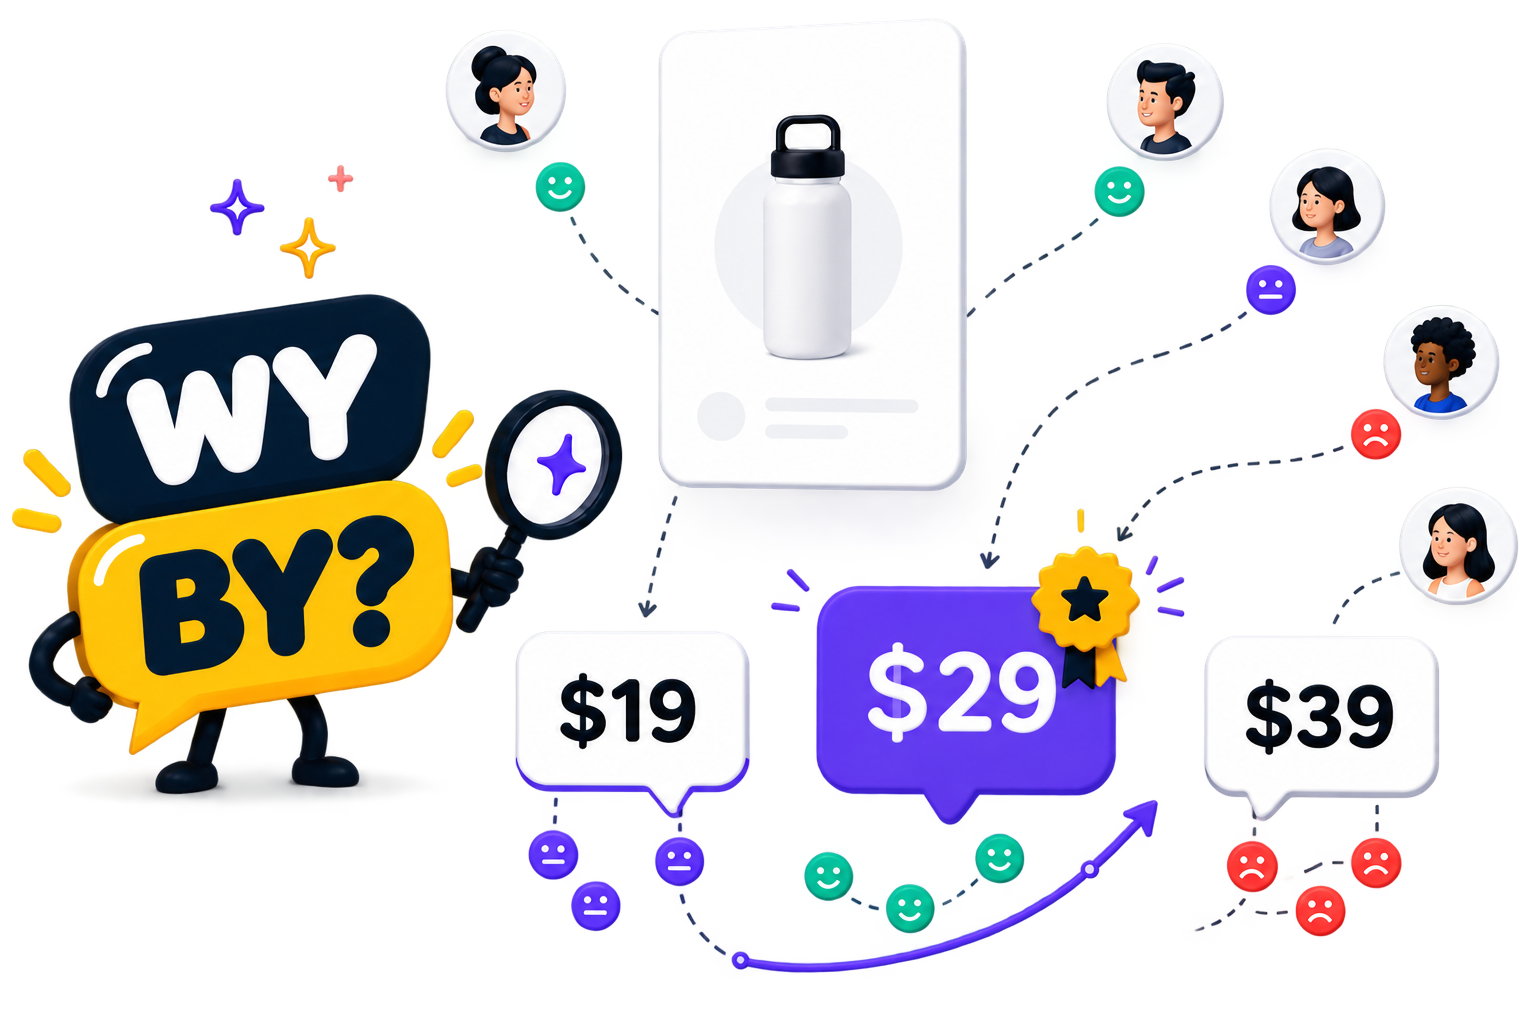
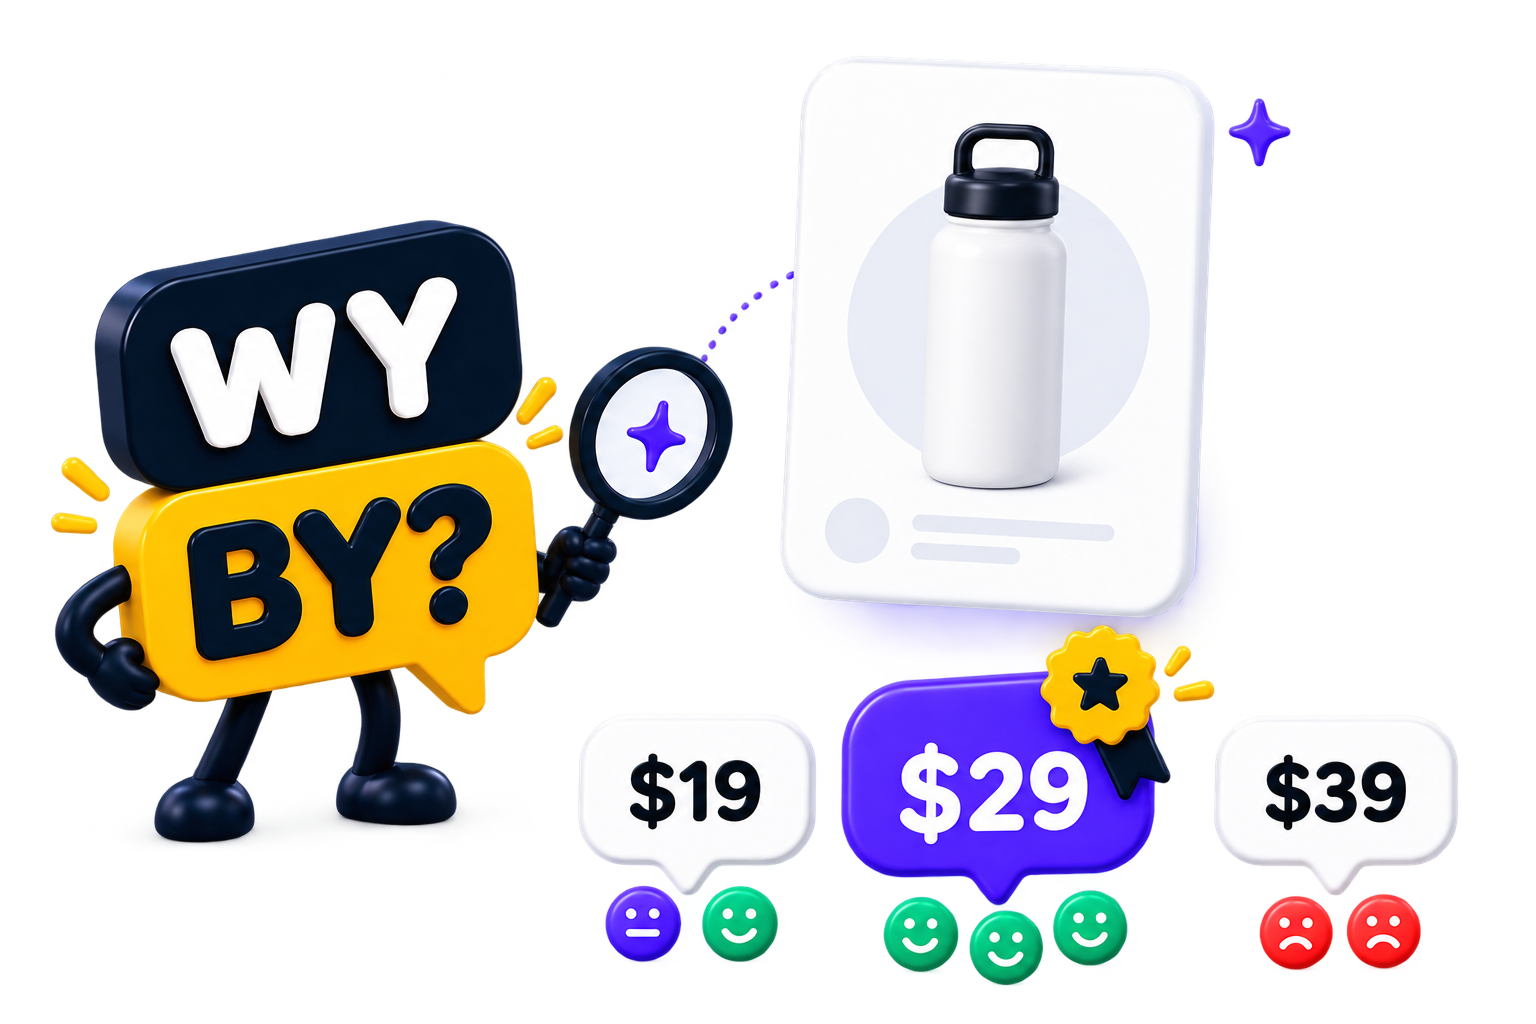
Hero section: new copy, decluttered illustration, price-box question merge
- Headline/subhead rewrite, simplified pricing line, "Clear price
  recommendation" replacing "Deterministic report"
- Replace hero illustration with a cleaner version (mascot, product,
  three prices — no avatar clutter)
- OfferCard: price box now opens with "Would you buy {title} for"
  above the price, with an optional priceExtra slot so the ask/
  confidence/suggest/done steps can render inside the same box
- HomeDemo: whole demo flow now lives in the price box; drop the
  now-redundant "Would you actually buy this?" heading; larger
  title and price-question type sizes

diff --git a/src/components/HomeDemo.js b/src/components/HomeDemo.js
@@ -58,82 +58,82 @@ export function HomeDemo() {
         price={34}
         titleClassName="pt-4 pb-2 md:pt-0 md:pb-0"
         className="border-none shadow-[0_8px_24px_rgba(30,35,64,0.06)]"
-      >
-        {step === 'ask' && (
-          <div className="mt-6">
-            <h2 className="text-xl font-extrabold tracking-tight">Would you actually buy this?</h2>
-            <div className="mt-5 grid gap-3 sm:grid-cols-2">
-              <button type="button" className="btn btn-answer text-lg py-4" onClick={() => chooseAnswer('yes')}>
-                Yes, I&apos;d buy it
-              </button>
-              <button type="button" className="btn btn-answer text-lg py-4" onClick={() => chooseAnswer('no')}>
-                No, not at this price
-              </button>
-            </div>
-          </div>
-        )}
-
-        {step === 'confidence' && (
-          <div className="mt-6">
-            <h2 className="text-center text-xl font-extrabold tracking-tight">How serious are you?</h2>
-            <div className="mt-5 grid gap-2">
-              {CONFIDENCE_OPTIONS.map((option) => (
-                <button key={option.value} type="button" className="btn btn-plain flex-col items-start gap-0 pl-8 pr-5 py-2" onClick={finish}>
-                  <span className="text-base font-extrabold">{option.label}</span>
-                  <span className="text-sm font-normal text-muted">{option.hint}</span>
+        priceExtra={
+          <>
+            {step === 'ask' && (
+              <div className="grid gap-3 sm:grid-cols-2">
+                <button type="button" className="btn btn-answer text-lg py-4" onClick={() => chooseAnswer('yes')}>
+                  Yes, I&apos;d buy it
                 </button>
-              ))}
-            </div>
-            <button type="button" className="btn-ghost mt-4 w-full text-sm" onClick={finish}>
-              Skip
-            </button>
-          </div>
-        )}
-
-        {step === 'suggest' && (
-          <div className="mt-6">
-            <h2 className="text-center text-xl font-extrabold tracking-tight">What would feel like a fair price?</h2>
-            <form
-              className="mt-5"
-              onSubmit={(event) => {
-                event.preventDefault();
-                finish();
-              }}
-            >
-              <div className="flex items-center gap-2">
-                <span className="text-2xl font-bold">$</span>
-                <input
-                  className="field text-lg"
-                  inputMode="decimal"
-                  value={suggestedPrice}
-                  onChange={(event) => setSuggestedPrice(event.target.value)}
-                  placeholder="0"
-                  autoFocus
-                  aria-label="Fair price"
-                />
+                <button type="button" className="btn btn-answer text-lg py-4" onClick={() => chooseAnswer('no')}>
+                  No, not at this price
+                </button>
               </div>
-              <button type="submit" className="btn btn-primary mt-4 w-full" disabled={!suggestedPrice.trim()}>
-                Submit
-              </button>
-            </form>
-            <button type="button" className="btn-ghost mt-3 w-full text-sm" onClick={finish}>
-              Skip
-            </button>
-          </div>
-        )}
+            )}
 
-        {step === 'done' && (
-          <div className="mt-6 text-center">
-            <p className="text-2xl font-extrabold tracking-tight">Thanks — vote recorded.</p>
-            <p className="hint mt-1">
-              {answer === 'yes' ? 'The creator sees the number, never your name.' : 'Honest answers are the useful ones.'}
-            </p>
-            <button type="button" className="btn-ghost mt-4 text-sm" onClick={reset}>
-              Try the demo again
-            </button>
-          </div>
-        )}
-      </OfferCard>
+            {step === 'confidence' && (
+              <div>
+                <h2 className="text-center text-lg font-extrabold tracking-tight">How serious are you?</h2>
+                <div className="mt-3 grid gap-2">
+                  {CONFIDENCE_OPTIONS.map((option) => (
+                    <button key={option.value} type="button" className="btn btn-plain flex-col items-start gap-0 pl-8 pr-5 py-2" onClick={finish}>
+                      <span className="text-base font-extrabold">{option.label}</span>
+                      <span className="text-sm font-normal text-muted">{option.hint}</span>
+                    </button>
+                  ))}
+                </div>
+                <button type="button" className="btn-ghost mt-3 w-full text-sm" onClick={finish}>
+                  Skip
+                </button>
+              </div>
+            )}
+
+            {step === 'suggest' && (
+              <div>
+                <h2 className="text-center text-lg font-extrabold tracking-tight">What would feel like a fair price?</h2>
+                <form
+                  className="mt-3"
+                  onSubmit={(event) => {
+                    event.preventDefault();
+                    finish();
+                  }}
+                >
+                  <div className="flex items-center gap-2">
+                    <span className="text-2xl font-bold">$</span>
+                    <input
+                      className="field text-lg"
+                      inputMode="decimal"
+                      value={suggestedPrice}
+                      onChange={(event) => setSuggestedPrice(event.target.value)}
+                      placeholder="0"
+                      autoFocus
+                      aria-label="Fair price"
+                    />
+                  </div>
+                  <button type="submit" className="btn btn-primary mt-4 w-full" disabled={!suggestedPrice.trim()}>
+                    Submit
+                  </button>
+                </form>
+                <button type="button" className="btn-ghost mt-3 w-full text-sm" onClick={finish}>
+                  Skip
+                </button>
+              </div>
+            )}
+
+            {step === 'done' && (
+              <div className="text-center">
+                <p className="text-xl font-extrabold tracking-tight">Thanks — vote recorded.</p>
+                <p className="hint mt-1">
+                  {answer === 'yes' ? 'The creator sees the number, never your name.' : 'Honest answers are the useful ones.'}
+                </p>
+                <button type="button" className="btn-ghost mt-3 text-sm" onClick={reset}>
+                  Try the demo again
+                </button>
+              </div>
+            )}
+          </>
+        }
+      />
     </div>
   );
 }

diff --git a/src/components/OfferCard.js b/src/components/OfferCard.js
@@ -6,7 +6,7 @@ import { ProductImageGallery } from './ProductImageGallery.js';
  * The offer as a respondent sees it. Deliberately one component so the
  * homepage demo, the live respondent page and the preview can never drift apart.
  */
-export function OfferCard({ test, price, showPrice = true, children, className = '', titleClassName = '' }) {
+export function OfferCard({ test, price, showPrice = true, priceExtra, children, className = '', titleClassName = '' }) {
   const storedImages = Array.isArray(test.image_urls) ? test.image_urls : [];
   const imageUrls = storedImages.length > 0 ? storedImages : test.image_url ? [test.image_url] : [];
   const items = (test.included_items || '')
@@ -19,7 +19,7 @@ export function OfferCard({ test, price, showPrice = true, children, className =
       {imageUrls.length > 0 && <ProductImageGallery images={imageUrls} presentations={test.image_presentations} />}
 
       <div className={imageUrls.length ? 'p-0 md:pt-1' : 'p-6 sm:p-8'}>
-        <h1 className={`text-2xl font-extrabold tracking-tight ${titleClassName}`}>{test.title}</h1>
+        <h1 className={`text-3xl font-extrabold tracking-tight ${titleClassName}`}>{test.title}</h1>
         <p className="mt-2 text-muted leading-relaxed">{test.description}</p>
 
         {items.length > 0 && (
@@ -48,10 +48,14 @@ export function OfferCard({ test, price, showPrice = true, children, className =
 
         {showPrice && (
           <div className="mt-6 rounded-xl border-2 border-ink bg-[#f4f1ff] p-4">
-            <p className="text-xs font-bold uppercase tracking-wider text-muted">The price you&apos;d pay</p>
+            <p className="text-base font-bold text-ink">Would you buy {test.title} for</p>
             <p className="mt-1 text-5xl font-extrabold tracking-tight">
             {formatPrice(price, test.currency, test.billing_type)}
             </p>
+            {/* Optional slot for the initial ask (question + yes/no buttons) so it
+              * can live in the same box as the price it's asking about, instead of
+              * as a disconnected block underneath — see HomeDemo. */}
+            {priceExtra && <div className="mt-4 border-t border-ink/10 pt-4">{priceExtra}</div>}
           </div>
         )}
 

diff --git a/src/app/page.js b/src/app/page.js
@@ -81,11 +81,11 @@ export default function HomePage() {
             <div className="min-w-0">
             <p className="eyebrow">Pricing research with real people</p>
             <h1 className="mt-4 text-4xl sm:text-6xl font-extrabold tracking-tight leading-[0.98]">
-              Find the price people are most willing to buy at.
+              Find the price people are willing to pay.
             </h1>
             <p className="mt-5 max-w-xl text-base leading-relaxed text-muted">
-              Test different prices without letting people compare them. Each person sees just one price and
-              tells you whether they&apos;d actually buy at that price.
+              Test different prices with real people—without showing them alternatives. Each person sees one
+              price and tells you whether they&apos;d actually buy.
             </p>
 
             <div className="mt-7">
@@ -97,8 +97,8 @@ export default function HomePage() {
                   View demo
                 </Link>
               </div>
-              <span className="hint mt-2 block">Free to create. Free to collect responses.</span>
-              <span className="hint mt-1 block">Pay $14.90 only when you want to unlock the full report.</span>
+              <span className="hint mt-2 block">Free to create and collect responses.</span>
+              <span className="hint mt-1 block">Pay $14.90 only when you unlock the full report.</span>
             </div>
 
             <div className="mt-8 flex flex-wrap items-center gap-x-4 gap-y-2 text-xs font-semibold text-muted sm:flex-nowrap sm:gap-x-5 sm:text-sm">
@@ -112,7 +112,7 @@ export default function HomePage() {
               </span>
               <span className="inline-flex items-center gap-1.5 whitespace-nowrap">
                 <CheckIcon className="h-3.5 w-3.5 shrink-0 text-accent sm:h-4 sm:w-4" />
-                Deterministic report
+                Clear price recommendation
               </span>
             </div>
           </div>
